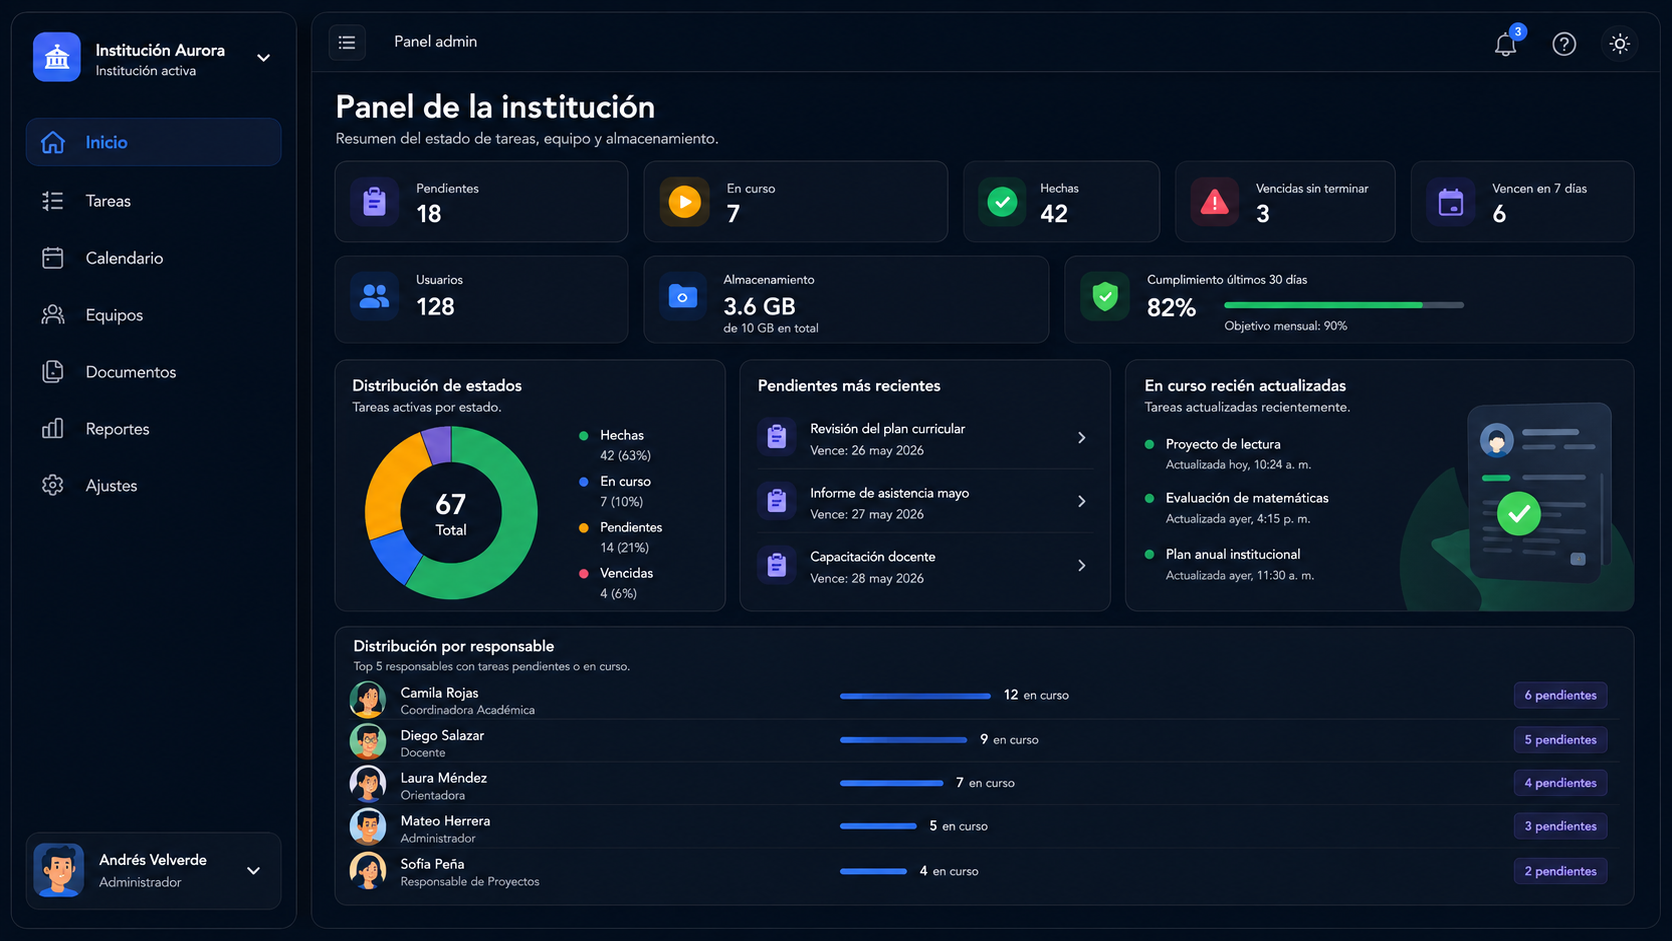
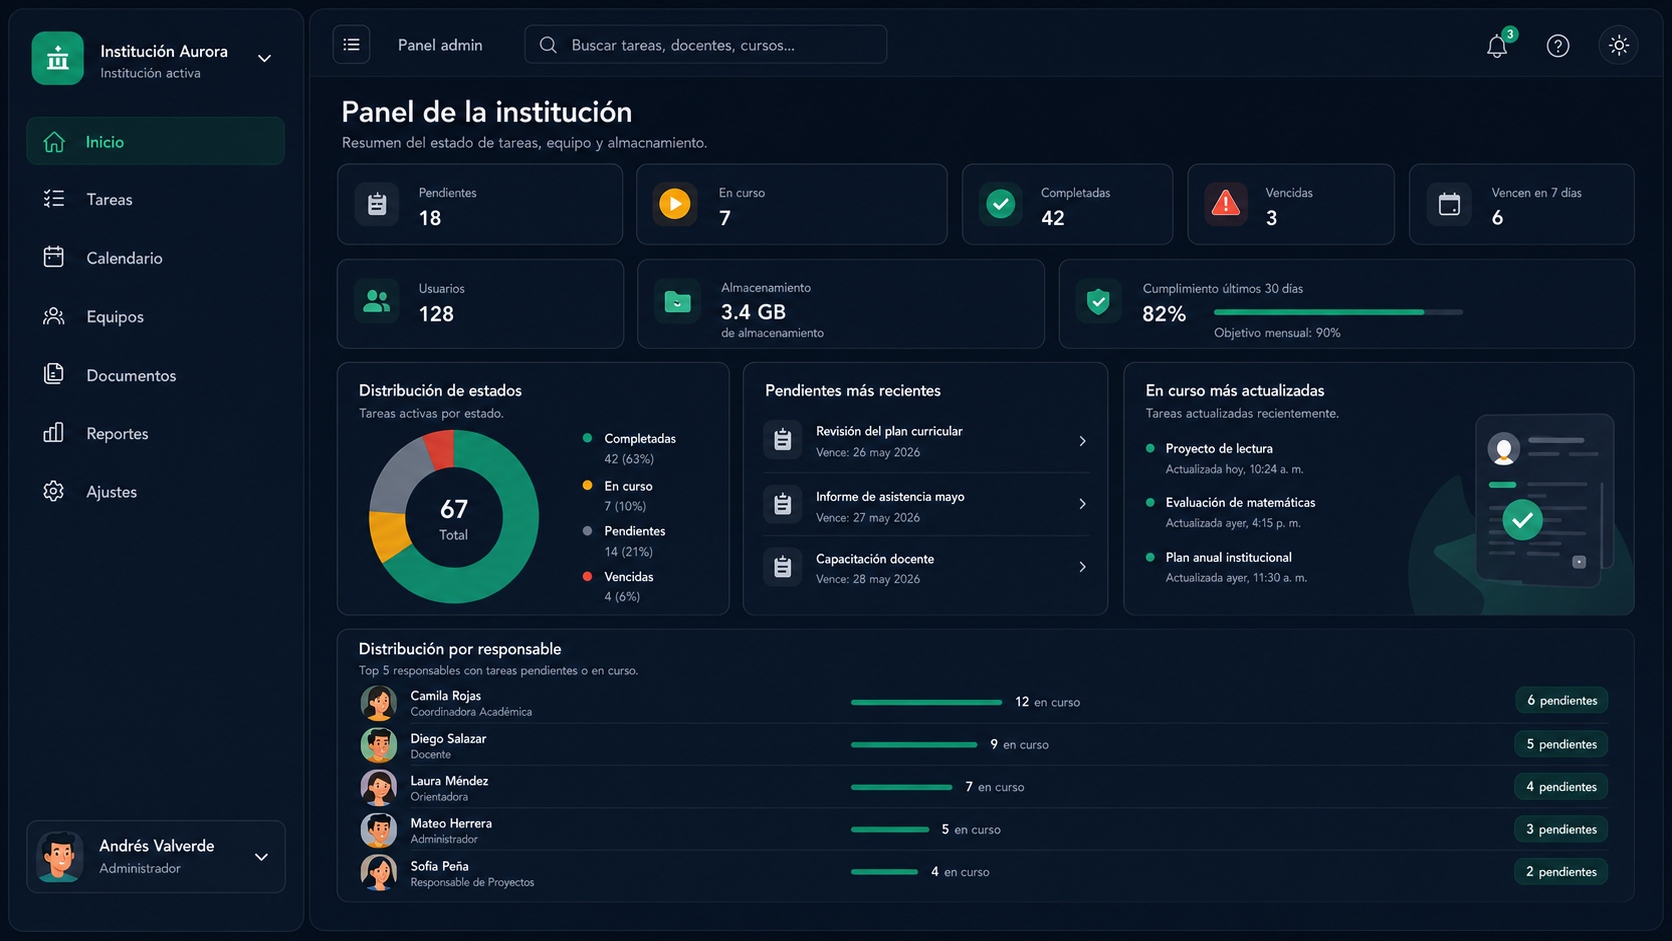
refactor(landing): update content and refine hero styles
- Update roadmap and social proof content for better clarity and accuracy
- Refine hero component background styles using Tailwind arbitrary values
- Update landing page assets including dashboard screenshots and favicon

diff --git a/next-app/content/landing/index.ts b/next-app/content/landing/index.ts
@@ -326,34 +326,34 @@ export const benefitsContent = {
 
 export const roadmapContent = {
   eyebrow: "Roadmap",
-  title: "En camino, no prometido como entregado",
+  title: "Funcionalidades futuras",
   subtitle:
-    "Estas capacidades están en construcción y se irán liberando a las instituciones piloto a medida que estén listas. Las marcamos explícitamente para no inflar lo que el producto entrega hoy.",
+    "Estas capacidades están en construcción y se irán liberando medida que estén listas.",
   badge: "Próximamente",
   items: [
     {
       icon: "EnvelopeSimple" as IconName,
-      name: "Google Workspace",
+      name: "Google Drive",
       description:
-        "Inicio de sesión con cuenta institucional de Google y sincronización de calendarios.",
+        "Almacenamiento de archivos en Google Drive sin límites",
     },
     {
       icon: "EnvelopeSimple" as IconName,
-      name: "Microsoft 365",
+      name: "OneDrive",
       description:
-        "Inicio de sesión con cuenta institucional de Microsoft y compatibilidad con Outlook.",
+        "Almacenamiento de arhivos en Microsoft OneDrive sin límietes.",
     },
     {
       icon: "CalendarCheck" as IconName,
-      name: "Calendarios externos",
+      name: "Calendarios",
       description:
-        "Sincronización de plazos con Google Calendar y Outlook Calendar.",
+        "Sincronización de plazos con Google Calendar.",
     },
     {
       icon: "Bell" as IconName,
-      name: "Notificaciones in-app y push",
+      name: "Notificaciones",
       description:
-        "Avisos dentro de la plataforma y notificaciones push al celular, además del correo.",
+        "Avisos dentro de la plataforma y notificaciones por WhatsApp y por email.",
     },
   ],
 } as const;
@@ -393,28 +393,28 @@ export const securityContent = {
 
 export const socialProofContent = {
   eyebrow: "Prueba social",
-  title: "Lo que dicen quienes ya lo usan",
+  title: "Comentarios de nuestros usuarios",
   subtitle:
-    "Testimonios ilustrativos para esta versión inicial. Pronto los reemplazaremos con casos reales de instituciones que confían en Docentix.",
+    "Testimonios de usuarios actuales de Docentix. Se reemplazaron los nombres reales por privacidad.",
   testimonials: [
     {
       name: "María Restrepo",
       role: "Rectora",
-      institution: "Colegio San Ignacio",
+      institution: "Institución Educativa Simón Bolívar",
       quote:
         "Pasamos de no saber qué tarea estaba pendiente a tener todo a la vista. Las reuniones operativas bajaron a la mitad.",
     },
     {
       name: "Andrés Cárdenas",
       role: "Coordinador Académico",
-      institution: "Instituto Bilingüe del Norte",
+      institution: "Institución Educativa María Auxiliadora",
       quote:
         "Por fin un lugar donde el equipo entiende qué se le pide y para cuándo. Los docentes lo agradecen.",
     },
     {
       name: "Lucía Mendoza",
       role: "Docente",
-      institution: "Escuela Normal Superior",
+      institution: "Escuela Normal Superior Rafael Núñez",
       quote:
         "Tengo todas mis tareas en un solo sitio, con recordatorios. Es como tener una agenda institucional clara.",
     },

diff --git a/next-app/components/landing/hero.tsx b/next-app/components/landing/hero.tsx
@@ -15,7 +15,7 @@ export function Hero() {
       {/* Capa decorativa: grid de puntos suave */}
       <div
         aria-hidden
-        className="absolute inset-0 -z-10 opacity-[0.25] bg-[radial-gradient(var(--color-border)_1px,transparent_1px)] [background-size:24px_24px] [mask-image:radial-gradient(ellipse_60%_60%_at_50%_0%,#000_40%,transparent_100%)]"
+        className="absolute inset-0 -z-10 opacity-[0.25] bg-[radial-gradient(var(--color-border)_1px,transparent_1px)] bg-size-[24px_24px] mask-[radial-gradient(ellipse_60%_60%_at_50%_0%,#000_40%,transparent_100%)]"
       />
 
       <div className="mx-auto grid w-full max-w-6xl gap-10 px-4 py-16 sm:px-6 sm:py-24 lg:grid-cols-12 lg:items-center lg:gap-12 lg:py-28">
